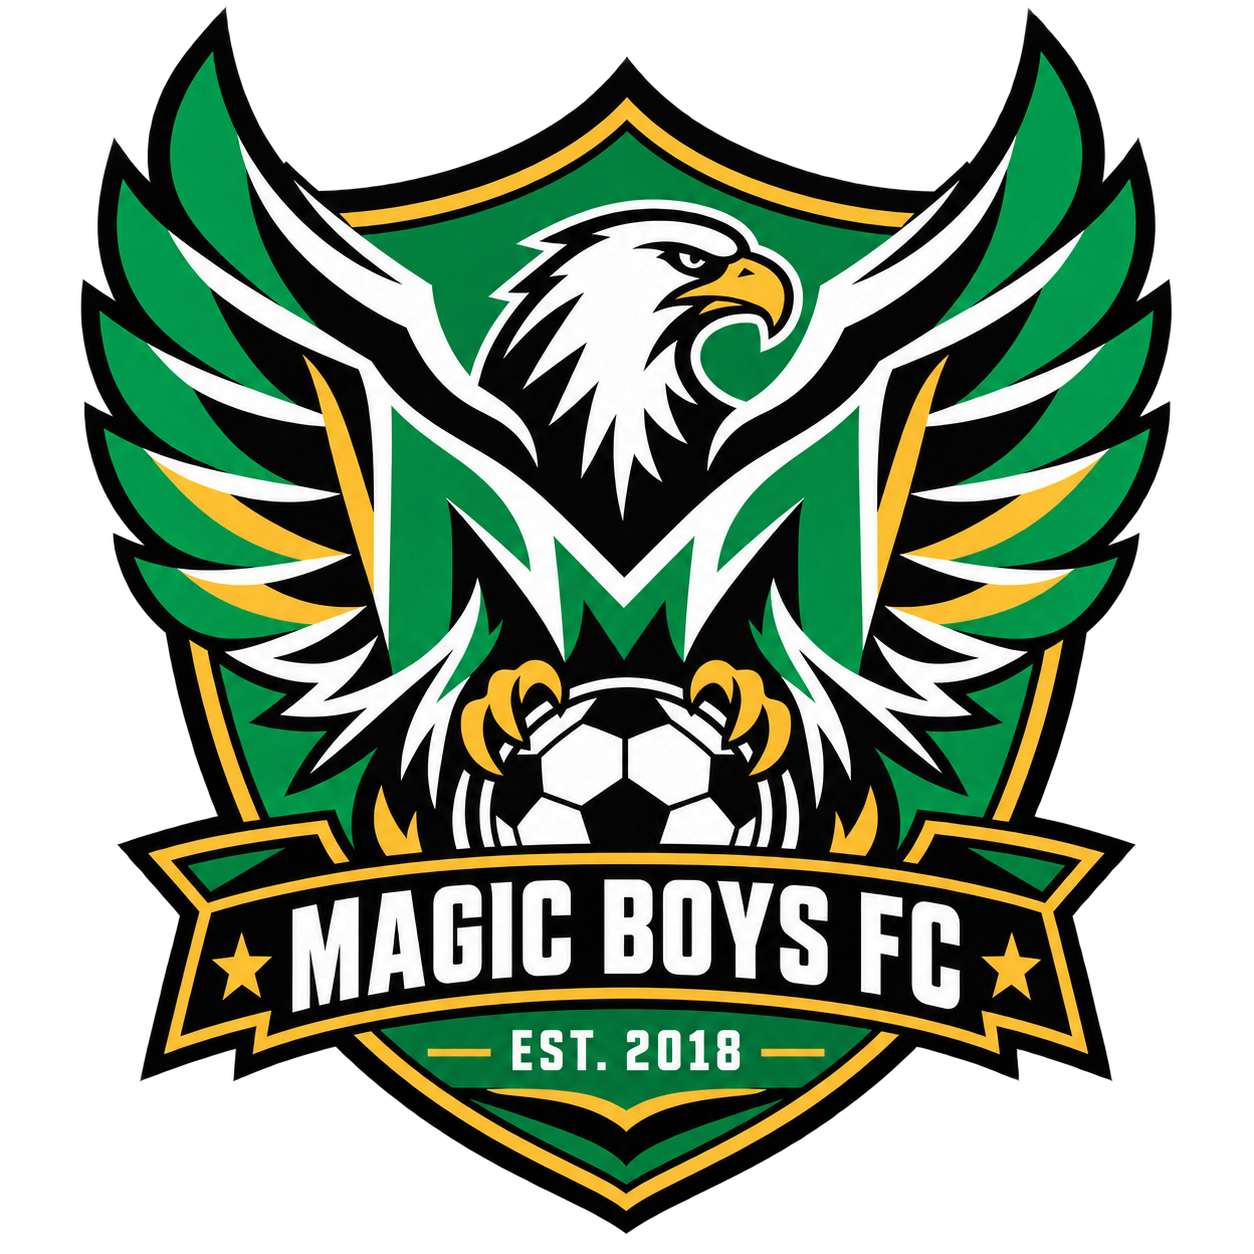
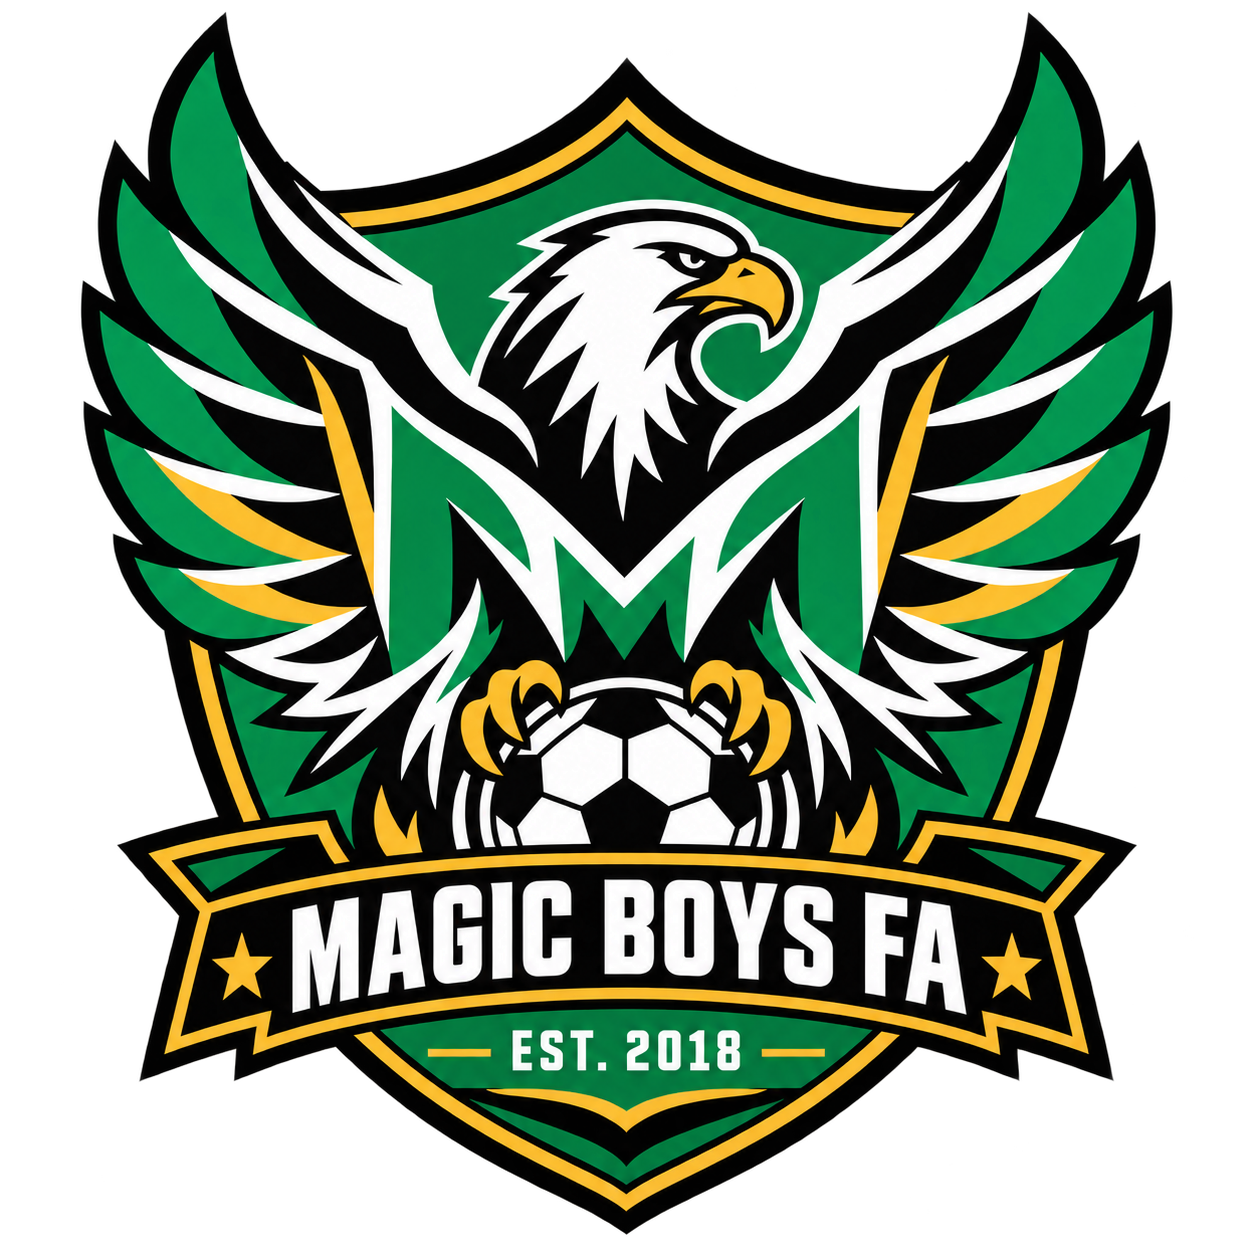
Update case study to Magic Boys Football Academy

diff --git a/README.md b/README.md
@@ -1,24 +1,24 @@
 <p align="center">
-  <img src="assets/magic-boys-fc.webp" width="100%" alt="Magic Boys FC community football team">
+  <img src="assets/magic-boys-fc.webp" width="100%" alt="Magic Boys Football Academy community team">
 </p>
 
 <p align="center">
-  <img src="assets/crest.png" width="148" alt="Magic Boys FC crest">
+  <img src="assets/crest.png" width="148" alt="Magic Boys FA crest">
 </p>
 
-# Magic Boys FC — Community Football, Made Visible
+# Magic Boys Football Academy — Community Football, Made Visible
 
 **[Visit the live website](https://magicboys.pages.dev/)**
 
-Magic Boys FC is a Namibian community football team founded by Coach Naftal to give young people a disciplined, positive place to play, learn and grow. This project turns that purpose into a public identity that can earn trust, attract support and help the club reach future partners.
+Magic Boys Football Academy is a Namibian community academy founded by Coach Naftal to give young people a disciplined, positive place to play, learn and grow. This project turns that purpose into a public identity that can earn trust, attract support and help the academy reach future partners.
 
 ## The brief
 
-The club had heart, photographs and a clear need for stronger visibility—but no cohesive digital home. The work needed to feel energetic and joyful without turning the children into marketing material. It also needed a simple sponsorship path that an interested person could use immediately.
+The academy had heart, photographs and a clear need for stronger visibility—but no cohesive digital home. The work needed to feel energetic and joyful without turning the children into marketing material. It also needed a simple sponsorship path that an interested person could use immediately.
 
 ## What shipped
 
-- A completely reimagined Magic Boys FC crest
+- A completely reimagined Magic Boys FA crest
 - A bright, mobile-first website with a lively match-day rhythm
 - A clear story around football, learning, discipline and belonging
 - Dedicated visibility for the U13, U15 and U20 squads
@@ -55,7 +55,7 @@ Discovery · audio-led story extraction · brand direction · identity design ·
 
 ## Links
 
-- [Magic Boys FC](https://magicboys.pages.dev/)
+- [Magic Boys Football Academy](https://magicboys.pages.dev/)
 - [Runnerz Namibia](https://runnerznamibia.com)
 - [Freeman Ipumbu portfolio](https://freeman-ipumbu.pages.dev/)
 
